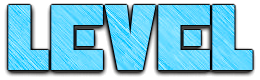
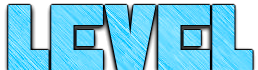
created rank on strument

diff --git a/orchestra/script.js b/orchestra/script.js
@@ -1,37 +1,40 @@
 window.onload = function () {
     function assignments() {
-        olivia.b2(4, "very convenient. excellent shifts")
-        angela.a8(3, "There was funny rhythm on measure 5. Also you can ignore repeats")
-        brevin.a8(4, "Great sustaining of tones. To make it even better crescendo the first 4 bars and do the opposite the next four bars")
-        brian.a2(2, "Lets go over this. The notes are not correct")
-        brevin.a9(2, "There are no F sharps in the Key signature")
-        olivia.b4(2,"Close. The f#s were very flat and sounded like f naturals")
-        olivia.b3(4, "You don't need to repeat, but love the attention to detail")
-        amyr.a4(4, "The top C was a little sharp remember to keep it right next ot the B")
-        brevin.a7(4)
-        brett.a9(4)
+        olivia.b2(4, "very convenient. excellent shifts");
+        angela.a8(3, "There was funny rhythm on measure 5. Also you can ignore repeats");
+        brevin.a8(
+            4,
+            "Great sustaining of tones. To make it even better crescendo the first 4 bars and do the opposite the next four bars"
+        );
+        brian.a2(2, "Lets go over this. The notes are not correct");
+        brevin.a9(2, "There are no F sharps in the Key signature");
+        olivia.b4(2, "Close. The f#s were very flat and sounded like f naturals");
+        olivia.b3(4, "You don't need to repeat, but love the attention to detail");
+        amyr.a4(4, "The top C was a little sharp remember to keep it right next ot the B");
+        brevin.a7(4);
+        brett.a9(4);
 
-
-
-
-
-
-
-
-
-
-        lucca.a2(3,"Pretty good. Only problem is your 3 needs to be higher. It should be touching the 4")
-        tristan.a9(4, "Excellent").a8(4)
-        tristan.a7(4)
-        tristan.a5(4,"excellent shifts")
-        tristan.a6(4, "The B natural on G string was just a hair too low")
-        tristan.a10(4,"First to complete this correctly")
-        emily.a2(4, "Thank you for the disclaimer! Sounds good on this end. Woah except for that G string")
-        kamille.a2(4,"Good")
-        mackenzie.a2(3,"One note near the end of 17th realy out of tune. Maybe 1st finger D on the A string. other than that, really good")
-        emily.a3(4,"Watch out for articulation")
-        ryann.a2(4,"Good sound. Try playing them a bit faster")
-        jules.a2(4,"Watch out for H3 making sure it is high enough. Otherwise very good")
+        lucca.a2(
+            3,
+            "Pretty good. Only problem is your 3 needs to be higher. It should be touching the 4"
+        );
+        tristan.a9(4, "Excellent").a8(4);
+        tristan.a7(4);
+        tristan.a5(4, "excellent shifts");
+        tristan.a6(4, "The B natural on G string was just a hair too low");
+        tristan.a10(4, "First to complete this correctly");
+        emily.a2(
+            4,
+            "Thank you for the disclaimer! Sounds good on this end. Woah except for that G string"
+        );
+        kamille.a2(4, "Good");
+        mackenzie.a2(
+            3,
+            "One note near the end of 17th realy out of tune. Maybe 1st finger D on the A string. other than that, really good"
+        );
+        emily.a3(4, "Watch out for articulation");
+        ryann.a2(4, "Good sound. Try playing them a bit faster");
+        jules.a2(4, "Watch out for H3 making sure it is high enough. Otherwise very good");
         ryann.a3(4, "Great sound as always");
         walker.a3(
             4,
@@ -198,7 +201,7 @@ window.onload = function () {
         jules.a3(3, "A few missed notes. Otherwise good");
         kamille.a3(3, "Good but it could be a little faster");
         julia.a1(2, "Close. Let's go over this next class. I will start with cellos");
-        ally.a1(4)
+        ally.a1(4);
     }
 
     var person = "";
@@ -250,7 +253,7 @@ window.onload = function () {
         "caroline",
         "ramon",
         "kamille",
-        "ally"
+        "ally",
     ];
     let personage = "";
     var lvl = document.getElementById("lvl1");
@@ -1281,7 +1284,7 @@ window.onload = function () {
         caroline,
         ramon,
         kamille,
-        ally
+        ally,
     ];
 
     Character.prototype.printStats = function () {
@@ -3804,7 +3807,7 @@ window.onload = function () {
         comment.innerHTML = "";
     }
     function clearQuests() {
-        currentLevel.innerHTML = "CCPS HIGH SCHOOL ORCHESTRA LEARNING<br>BETA VERSION 1.51";
+        currentLevel.innerHTML = "CCPS HIGH SCHOOL ORCHESTRA LEARNING<br>BETA VERSION 1.60";
         assign1.innerHTML = "";
         assign2.innerHTML = "";
         assign3.innerHTML = "";
@@ -4031,72 +4034,62 @@ window.onload = function () {
         }
     });
 
-     //RANK BY INSTRUMENT
+    //RANK BY INSTRUMENT
 
+    let teamViolin = [];
+    let teamViola = [];
+    let teamCello = [];
+    let teamBass = [];
+    topScore.forEach(instrumentTeam);
 
+    // console.log(topScore);
 
-//      let teamViolin = [];
-//      let teamViola = [];
-//      let teamCello = [];
-//      let teamBass = [];
-//      topScore.forEach(instrumentTeam)
+    function instrumentTeam(item) {
+        if (item.instrument == "Violin") {
+            teamViolin.push(item);
+        }
+        if (item.instrument == "Viola") {
+            teamViola.push(item);
+        }
+        if (item.instrument == "Cello") {
+            teamCello.push(item);
+        }
+        if (item.instrument == "Bass") {
+            teamBass.push(item);
+        }
+    }
 
+    var violinHighScore = _.sortBy(teamViolin, function (team) {
+        return team.total_score * -1;
+    });
+    var violaHighScore = _.sortBy(teamViola, function (team) {
+        return team.total_score * -1;
+    });
+    var celloHighScore = _.sortBy(teamCello, function (team) {
+        return team.total_score * -1;
+    });
+    var bassHighScore = _.sortBy(teamBass, function (team) {
+        return team.total_score * -1;
+    });
+    console.log(violinHighScore);
+    console.log(violaHighScore);
+    console.log(celloHighScore);
+    console.log(bassHighScore);
 
-//      // console.log(topScore);
+    topScore.forEach(instrumentTopScore);
 
-//     function instrumentTeam(item) {
-//         if (item.instrument == "Violin") {
-//             teamViolin.push(item);
-//         } if (item.instrument == "Viola") {
-//             teamViola.push(item);
-//         } if (item.insarument == "Cello") {
-//             teamCello.push(item);
-//         } if (item.instrument == "Bass") {
-//             teamBass.push(item);
-//         }
-//     }
+    function instrumentTopScore(item) {
+        // console.log(item.instrument);
+        // console.log(person);
 
-//     var violinHighScore = _.sortBy(teamViolin, function (team) {
-//         return team.total_score * -1;
-//     });
-//     var violaHighScore = _.sortBy(teamViola, function (team) {
-//         return team.total_score * -1;
-//     });
-//     var celloHighScore = _.sortBy(teamCello, function (team) {
-//         return team.total_score * -1;
-//     });
-//     var bassHighScore= _.sortBy(teamBass, function (team) {
-//         return team.total_score * -1;
-//     });
-// // console.log(violinHighScore);
-
-// celloHighScore.forEach(instrumentTopScore);
-
-// function instrumentTopScore(item) {
-//     console.log(item.instrument);
-//     console.log(person);
-
-//     if (person == item.realname && item.instrument == "Violin") {
-
-//         instrumentHighScore = violinHighScore.indexOf(item) + 1;
-//     }
-//     else if (person == item.realname && item.instrument == "Viola") {
-
-
-//         instrumentHighScore = violaHighScore.indexOf(item) + 1;
-//     }
-
-//     else if (person == item.realname && item.instrument == "Cello") {
-
-
-//                 instrumentHighScore = celloHighScore.indexOf(item) + 1;
-
-
-//     } else if (person == item.realname && item.instrument == "Bass") {
-
-//                 instrumentHighScore = bassHighScore.indexOf(item) + 1;
-
-//     }
-// }
-
+        if (item.realname == person && item.instrument == "Violin") {
+            instrumentHighScore = violinHighScore.indexOf(item) + 1;
+        } else if (person == item.realname && item.instrument == "Viola") {
+            instrumentHighScore = violaHighScore.indexOf(item) + 1;
+        } else if (person == item.realname && item.instrument == "Cello") {
+            instrumentHighScore = celloHighScore.indexOf(item) + 1;
+        } else if (person == item.realname && item.instrument == "Bass") {
+            instrumentHighScore = bassHighScore.indexOf(item) + 1;
+        }
+    }
 };

diff --git a/orchestra/style.css b/orchestra/style.css
@@ -131,8 +131,9 @@
     #levelPng,
     #defensePng,
     #coinPng{
-        height: 90%;
+        height: 100%;
         width: 40%;
+        /* display: inline; */
     }
 
 
